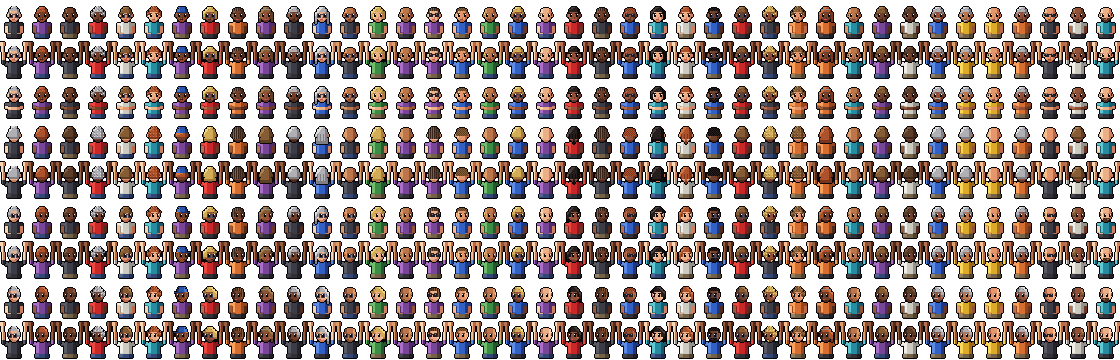
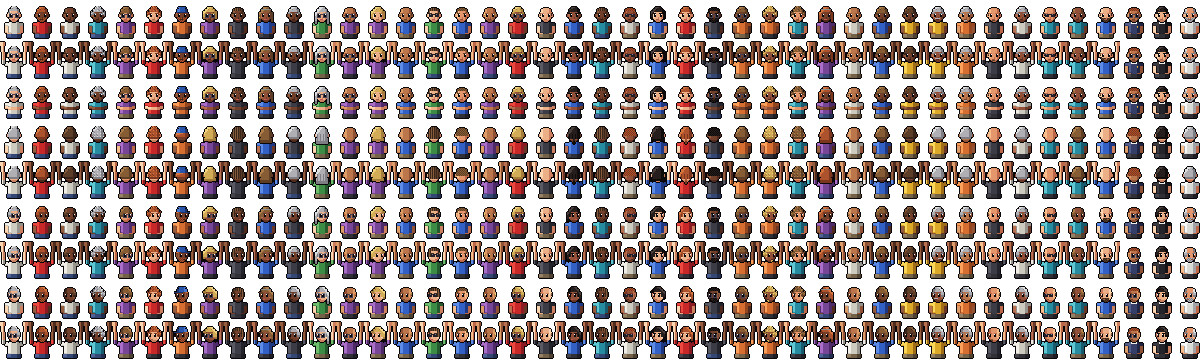
Cenário: oficiais da mesa com roupa própria e lotação do público 0-100%
Claude-Session: https://claude.ai/code/session_01KDZthyf9r1UXjaFXmiFsU3

diff --git a/arte/cenario/teste-camara/index.html b/arte/cenario/teste-camara/index.html
@@ -49,6 +49,9 @@ body { background: var(--bg); color: var(--fg); font-family: var(--f-text); font
       <button id="camE" type="button">Cenário</button>
       <button id="roda" type="button" aria-pressed="true">Mexer</button>
     </div>
+    <div class="ctrl" id="lot" aria-label="Público">
+      <button type="button" data-p="0">0%</button><button type="button" data-p="25">25%</button><button type="button" data-p="50" aria-pressed="true">50%</button><button type="button" data-p="75">75%</button><button type="button" data-p="100">100%</button>
+    </div>
   </div>
 </div>
 
@@ -223,15 +226,15 @@ body { background: var(--bg); color: var(--fg); font-family: var(--f-text); font
   // ---------- público: cadeiras de plástico à volta do ringue, uma bancada pequena ao fundo ----------
   var rnd = (function (s) { return function () { s = (s * 16807) % 2147483647; return s / 2147483647; }; })(42);
   var fans = [];
-  // fãs: atlas de 40 pessoas x 9 vistas/poses (28x40 cada, a ~32 px por metro, como os atletas)
+  // fãs: atlas de 40 pessoas + 3 oficiais da mesa (colunas 40-42) x 9 vistas/poses (28x40 cada, a ~32 px por metro, como os atletas)
   // linhas: 0-2 de frente (sentado, braços, palmas), 3-4 de costas, 5-6 virados para a direita, 7-8 virados para a esquerda
-  var NF = 40, LIN = 9, BASE = { f: 0, n: 3, e: 5, d: 7 };
+  var NF = 43, LIN = 9, BASE = { f: 0, n: 3, e: 5, d: 7 };
   function fan(x, y, z, lado, tint) {
     var t = TF.clone(); t.needsUpdate = true; t.repeat.set(1 / NF, 1 / LIN);
-    var v = Math.floor(rnd() * NF);
+    var v = Math.floor(rnd() * 40);
     var m = new THREE.SpriteMaterial({ map: t, transparent: true, alphaTest: 0.5, color: tint || 0xffffff });
     var s = new THREE.Sprite(m); s.center.set(0.5, 1.5 / 40); s.scale.set(28 / 32, 40 / 32, 1); s.position.set(x, y, z); scene.add(s);
-    var F = { t: t, v: v, lado: lado, pose: 0, timer: rnd() * 4000 };
+    var F = { t: t, v: v, s: s, k: rnd(), lado: lado, pose: 0, timer: rnd() * 4000 };
     fans.push(F); poeFan(F); return F;
   }
   function poeFan(F) {
@@ -271,7 +274,7 @@ body { background: var(--bg); color: var(--fg); font-family: var(--f-text); font
         if (POSTAS.some(function (p) { return p[2] !== L[0] && Math.abs(p[0] - x) < 0.7 && Math.abs(p[1] - z) < 0.7; })) continue;   // nos cantos, as filas de lados diferentes não se cruzam
         POSTAS.push([x, z, L[0]]);
         cadeira(x, z, L[1], cor);
-        if (rnd() < 0.42) fan(x, 0.42, z + (L[0] === 'n' ? 0.05 : 0), L[0]);   // cada lado vê-se virado para o ringue
+        fan(x, 0.42, z + (L[0] === 'n' ? 0.05 : 0), L[0]);   // cada lado vê-se virado para o ringue
       }
     }
   });
@@ -279,7 +282,7 @@ body { background: var(--bg); color: var(--fg); font-family: var(--f-text); font
   for (var row = 0; row < 4; row++) {
     var d = 10.5 + row * 0.85, h = row * 0.42;
     box(12, 0.42, 0.85, 0x6b6f78, 0, h + 0.21, -d);
-    for (var k2 = -5.6; k2 <= 5.6; k2 += 0.6) if (rnd() < 0.3) fan(k2, h + 0.4, -d + 0.1, 'f');
+    for (var k2 = -5.6; k2 <= 5.6; k2 += 0.6) fan(k2, h + 0.4, -d + 0.1, 'f');
   }
   // mesa do cronometrista (com o gongo), do supervisor e do médico: do lado da câmara, de costas para nós
   function mesa(x, z, w, d) { box(w, 0.04, d, 0xece9e0, x, 0.74, z); box(w - 0.1, 0.7, d - 0.1, 0xd9d5c8, x, 0.37, z); }
@@ -287,7 +290,7 @@ body { background: var(--bg); color: var(--fg); font-family: var(--f-text); font
   var gongo = new THREE.Mesh(new THREE.CylinderGeometry(0.17, 0.17, 0.03, 20), new THREE.MeshLambertMaterial({ color: 0xd4a52a, emissive: 0x3a2a00 }));
   gongo.rotation.x = Math.PI / 2; gongo.position.set(-0.7, 1.0, R + 1.25); scene.add(gongo);
   box(0.04, 0.5, 0.04, 0x444444, -0.95, 0.99, R + 1.25); box(0.04, 0.5, 0.04, 0x444444, -0.45, 0.99, R + 1.25); box(0.54, 0.04, 0.04, 0x444444, -0.7, 1.23, R + 1.25);
-  [-0.2, 0.6, 1.4].forEach(function (x) { var F = fan(x, 0.42, R + 1.95, 'n'); F.fixo = true; poeFan(F); cadeira(x, R + 2.0, Math.PI, 0x55585e); });
+  [-0.2, 0.6, 1.4].forEach(function (x, j) { var F = fan(x, 0.42, R + 1.95, 'n'); F.fixo = true; F.v = 40 + j; poeFan(F); cadeira(x, R + 2.0, Math.PI, 0x55585e); });
 
   // ---------- câmara e tamanho ----------
   var alvo = new THREE.Vector3(0, H + 0.9, 0), alvoSuave = alvo.clone(), fovSuave = 38;
@@ -330,6 +333,13 @@ body { background: var(--bg); color: var(--fg); font-family: var(--f-text); font
     rodar = !rodar; this.setAttribute('aria-pressed', rodar ? 'true' : 'false');
   });
   escolhe('D');
+  // lotação: cada lugar tem um fã com um número ao acaso; vê-se se o número for menor que a lotação
+  function lotacao(p) {
+    fans.forEach(function (F) { F.s.visible = F.fixo || F.k < p / 100; });
+    document.querySelectorAll('#lot button').forEach(function (b) { b.setAttribute('aria-pressed', +b.dataset.p === p ? 'true' : 'false'); });
+  }
+  document.querySelectorAll('#lot button').forEach(function (b) { b.addEventListener('click', function () { lotacao(+b.dataset.p); }); });
+  lotacao(50);
 
   // ---------- ciclo ----------
   var ang = Math.PI * 0.75, tm = 0, last = performance.now();

diff --git a/arte/cenario/fas/fas.py b/arte/cenario/fas/fas.py
@@ -246,11 +246,27 @@ def fa_novo(d, vista, pose, roupa, calca):
     im.alpha_composite(head, ((W - CR.W) // 2, 22 - 16))   # o queixo assenta na gola (cara por cima da camisola)
     if pose == 'bracos': im.alpha_composite(bracos_no_ar(d['pele'], roupa))
     return limpa(im)
+OFICIAIS = [((84, 96, 140), (52, 62, 104), (30, 36, 66)),     # supervisor: casaco azul-escuro
+            ((60, 60, 66), (36, 36, 42), (20, 20, 24)),       # cronometrista: pólo preto
+            ((248, 248, 246), (218, 218, 214), (164, 164, 168))]  # médico: bata branca
+def oficial(d, vista, roupa):
+    """oficiais da mesa do gongo: roupa própria e gola branca de camisa"""
+    im = fa_novo(d, vista, 'sentado', roupa, CALCA[1]); px = im.load()
+    for x in range(11, 17):
+        for y in (22, 23):
+            if px[x, y][3] and sum(px[x, y][:3]) > 60: px[x, y] = (236, 236, 232, 255)
+    if roupa is OFICIAIS[0]:                                  # crachá dourado no peito (de frente)
+        if vista == 'frente': px[17, 26] = (240, 196, 60, 255); px[17, 27] = (200, 150, 40, 255)
+    return im
 def atlas_novo(n, seed=7):
-    """atlas: n fãs em colunas; linhas = VISTAS_FA (28x40 cada)"""
-    D = CR.gerar(n, seed); random.seed(seed + 1)
-    out = Image.new('RGBA', (W * n, H * len(VISTAS_FA)))
-    for i, d in enumerate(D):
+    """atlas: n fãs em colunas + 3 oficiais no fim; linhas = VISTAS_FA (28x40 cada)"""
+    D = CR.gerar(n + 3, seed); random.seed(seed + 1)
+    out = Image.new('RGBA', (W * (n + 3), H * len(VISTAS_FA)))
+    for j in range(3):
+        d = dict(D[n + j]); d['estilo'] = random.choice(['curto', 'rapado', 'risca', 'entradas', 'careca']); d['mulher'] = False
+        for r, (v, pose) in enumerate(VISTAS_FA):
+            out.paste(oficial(d, v, OFICIAIS[j]), ((n + j) * W, r * H))
+    for i, d in enumerate(D[:n]):
         roupa = random.choice(ROUPA); calca = random.choice(CALCA)
         for r, (v, pose) in enumerate(VISTAS_FA):
             out.paste(fa_novo(d, v, pose, roupa, calca), (i * W, r * H))
